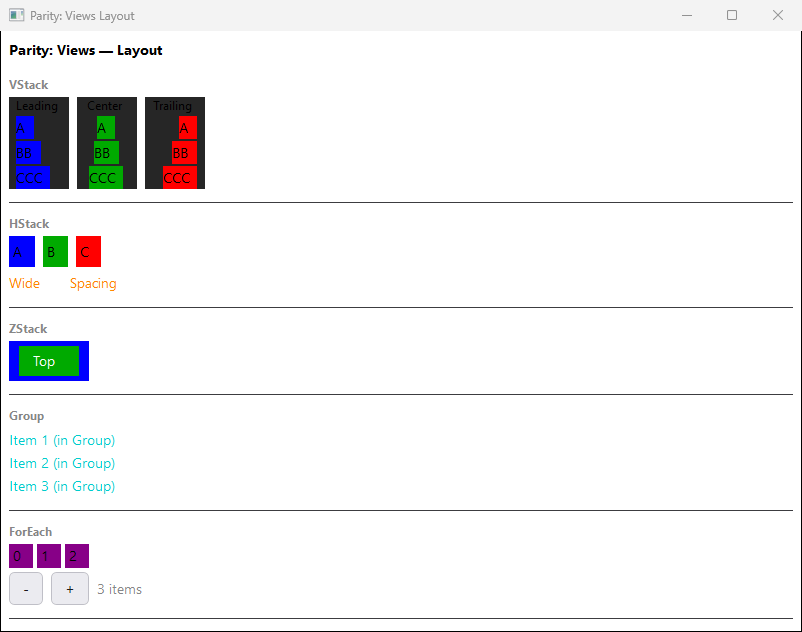
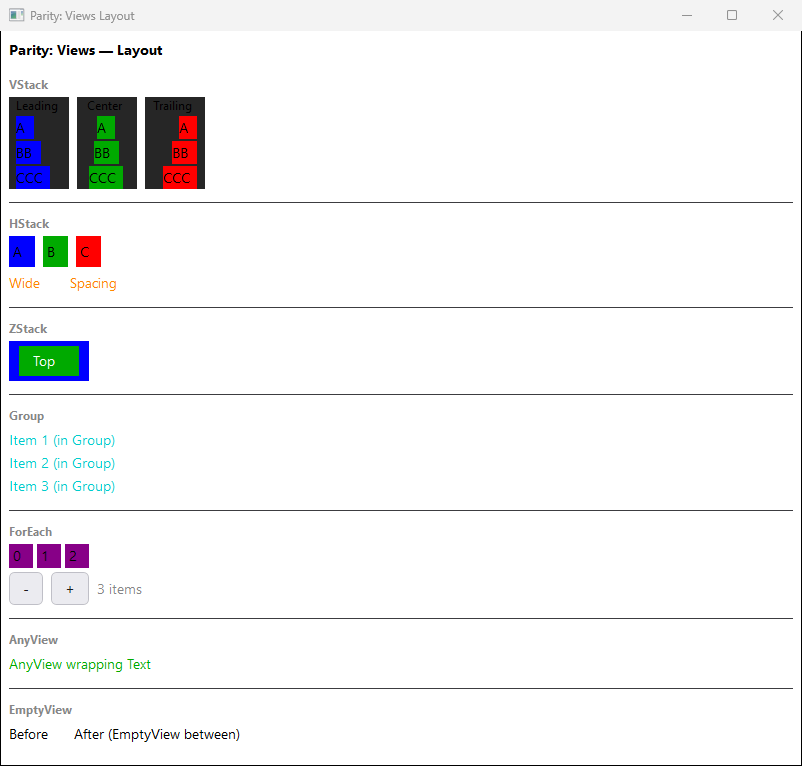
Docs: update Win32 comparison for window fit-to-content fix

diff --git a/docs/architecture/screenshot-comparison-win32.md b/docs/architecture/screenshot-comparison-win32.md
@@ -10,8 +10,8 @@ Reference: `screenshots/macos/` (real SwiftUI) vs `screenshots/windows/` (SwiftO
 **What changed since the March pass**
 - **Typography.** Plain `Text` now renders in Segoe UI instead of the legacy bitmap System font (#22), so
   text weight and size closely match macOS across every example. The old captures looked uniformly bold.
-- **Window size.** Windows now open at the shared 800x600 automatic default (`6d7d982`, April) instead of
-  sizing to their content. Short examples gain empty space; tall Parity examples are now **clipped** (see Open Issue 1).
+- **Window size.** Windows open at the shared 800x600 automatic default (`6d7d982`, April) and grow
+  to fit taller or wider content, capped at 3/4 of the screen. Short examples gain empty space versus March.
 
 ## Showcase Examples
 
@@ -77,8 +77,8 @@ Reference: `screenshots/macos/` (real SwiftUI) vs `screenshots/windows/` (SwiftO
 | Button (custom label) | Faint "Custom label ->" | Faint "Custom label ->" | OK |
 | TextField | Full width, system font | Full width, Segoe UI | OK |
 | Color swatches | Two rows | Two rows | OK |
-| Spacer / Divider sections | Visible | Clipped by window height | Open -- window fit |
-| Overall | Complete | Complete but clipped | B+ |
+| Spacer / Divider sections | Visible | Visible | OK |
+| Overall | Complete | Complete | A- |
 
 ### 7. ViewsLayout
 
@@ -88,8 +88,8 @@ Reference: `screenshots/macos/` (real SwiftUI) vs `screenshots/windows/` (SwiftO
 | HStack / ZStack / Group | Correct | Correct | OK |
 | ForEach (0/1/2) + +/- buttons | Working | Working | OK |
 | Label text on colored boxes | Black | Black | OK |
-| AnyView / EmptyView sections | Visible | Clipped by window height | Open -- window fit |
-| Overall | Complete | Complete but clipped | A- |
+| AnyView / EmptyView sections | Visible | Visible | OK |
+| Overall | Complete | Complete | A |
 
 ### 8. ViewsContainers
 
@@ -99,7 +99,7 @@ Reference: `screenshots/macos/` (real SwiftUI) vs `screenshots/windows/` (SwiftO
 | Slider + driven bar | Native | D2D custom | Good |
 | Image (system) | SF Symbols | Win32 stock icons (labeled) | OK |
 | ScrollView | Content-width, rows leading-aligned | Full width, rows centered | Open -- row alignment |
-| List | Rows leading-aligned | Rows centered; rows 1-2 clipped | Open -- row alignment, window fit |
+| List | Rows leading-aligned | Rows centered | Open -- row alignment |
 | Overall | Complete | Functional | B+ |
 
 ### 9. Modifiers
@@ -111,8 +111,8 @@ Reference: `screenshots/macos/` (real SwiftUI) vs `screenshots/windows/` (SwiftO
 | .foregroundColor() / .foregroundStyle() | Correct | Correct | OK |
 | .background() | Yellow/Custom bg | Yellow/Custom bg | OK |
 | .font() sizes | All 6 sizes | All 6 sizes | OK |
-| .border() ... .modifier() | 6 sections visible | Clipped by window height | Open -- window fit |
-| Overall | All 11 modifiers shown | 6 of 11 visible, all correct | B+ |
+| .border() ... .modifier() | 6 sections visible | 6 sections visible | OK |
+| Overall | All 11 modifiers shown | All 11 shown | A- |
 
 ### 10. StateData
 
@@ -182,11 +182,11 @@ Reference: `screenshots/macos/` (real SwiftUI) vs `screenshots/windows/` (SwiftO
 
 | Rating | Examples |
 |--------|----------|
-| A | HelloWorld, StateData, Environment, AppStructure |
-| A- | Stopwatch, ColorStudio, Calculator, ViewsLayout, Navigation, Focus |
-| B+ | SimplePaint, ViewsBasic, ViewsContainers, Modifiers, Gestures, Animation |
+| A | HelloWorld, ViewsLayout, StateData, Environment, AppStructure |
+| A- | Stopwatch, ColorStudio, Calculator, ViewsBasic, Modifiers, Navigation, Focus |
+| B+ | SimplePaint, ViewsContainers, Gestures, Animation |
 
-Most B+ ratings come from two shared causes (Open Issues 1-2), not from per-example bugs.
+Gestures and Animation share one cause (Open Issue 1).
 
 ## DPI Scaling
 
@@ -198,17 +198,17 @@ Evidence: `docs/evidence/win32-default-text-font/`. Not yet checked at 125% or 1
 
 | # | Issue | Affects | Type | Effort |
 |---|-------|---------|------|--------|
-| 1 | Window doesn't grow to fit content: the 800x600 automatic default clips tall content, while macOS sizes the window to at least the content's height | ViewsBasic, ViewsLayout, ViewsContainers, Modifiers | Window sizing | Medium |
-| 2 | `.foregroundColor()` applied after `.padding().background()` doesn't reach the inner `Text` | Gestures, Animation | Modifier propagation | Medium |
-| 3 | ScrollView / List rows are centered instead of leading-aligned | ViewsContainers | Layout | Medium |
-| 4 | Dividers on dark backgrounds are bright white instead of subtle | ColorStudio, Stopwatch | Styling | Low |
-| 5 | SimplePaint canvas page frame not drawn | SimplePaint | Not investigated | ? |
-| 6 | `.frame(minWidth:maxWidth:)` "Flex" box renders at min width (40) instead of max (100) | Modifiers | Layout | Low |
+| 1 | `.foregroundColor()` applied after `.padding().background()` doesn't reach the inner `Text` | Gestures, Animation | Modifier propagation | Medium |
+| 2 | ScrollView / List rows are centered instead of leading-aligned | ViewsContainers | Layout | Medium |
+| 3 | Dividers on dark backgrounds are bright white instead of subtle | ColorStudio, Stopwatch | Styling | Low |
+| 4 | SimplePaint canvas page frame not drawn | SimplePaint | Not investigated | ? |
+| 5 | `.frame(minWidth:maxWidth:)` "Flex" box renders at min width (40) instead of max (100) | Modifiers | Layout | Low |
 
 ## All Fixes Applied
 
 | Fix | Commit | Impact |
 |-----|--------|--------|
+| Automatic window grows to fit content | `a557817` | ViewsBasic B+ -> A-, ViewsLayout A- -> A, Modifiers B+ -> A- |
 | TextField/SecureField/TextEditor/search field font + TextField width | `d26f7bb` | Focus B+ -> A-, ViewsBasic B -> B+ |
 | Default Segoe UI font for plain Text (#22) | `83c32bd` | Typography matches macOS everywhere; "×" glyph renders (Modifiers "D0x30" fixed) |
 | Navigation expansion + header DPI (#11) | `fd4d1e3`..`c646d8e` | Navigation content fills the window; header scales at 125-175% |
@@ -231,9 +231,8 @@ Evidence: `docs/evidence/win32-default-text-font/`. Not yet checked at 125% or 1
 | Slot validation | `785990b` | Aligned with GTK4/Web |
 | Shadow-free screenshots | `db47b65` | Clean captures via PrintWindow |
 
-Rating changes in this pass mostly come from the window now being a fixed 800x600 (Open Issue 1)
-and from closer side-by-side checking, not from rendering regressions. The March captures were content-sized,
-so clipping and alignment gaps weren't visible then.
+Rating drops in the October pass came from closer side-by-side checking and the then-fixed 800x600 window
+(since fixed), not from rendering regressions. The March captures were content-sized, so alignment gaps weren't visible then.
 
 ## Platform Differences (Expected)
 
